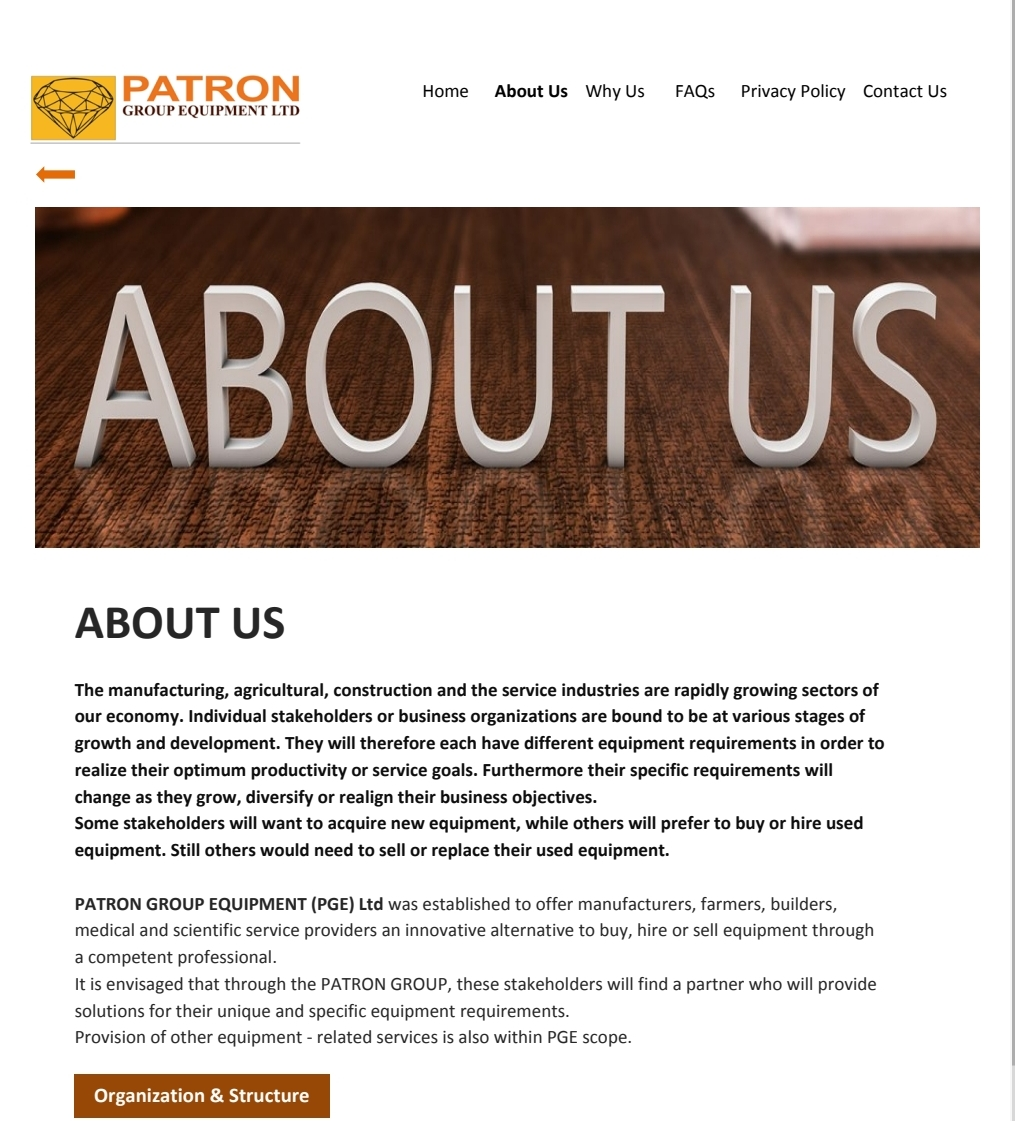
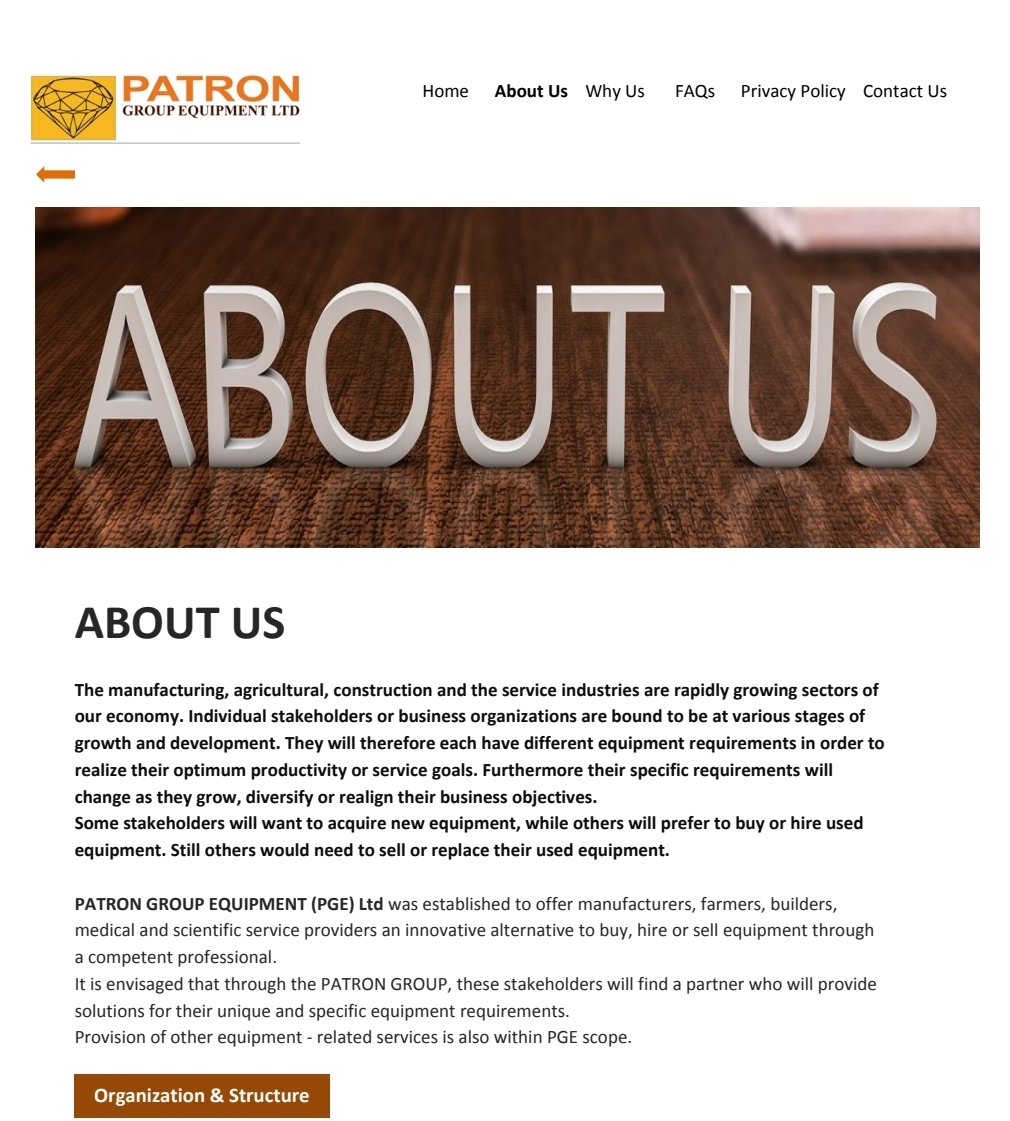
Replace About us image

diff --git a/landing-page.html b/landing-page.html
@@ -15,7 +15,7 @@
     </style>
 </head>
 <body>
-    <div class="image"></div>
+    <div class="image" style="border: 1px solid black;"></div>
     <script>
         const urlParams = new URLSearchParams(window.location.search);
         const imageUrl = urlParams.get('imageUrl');
